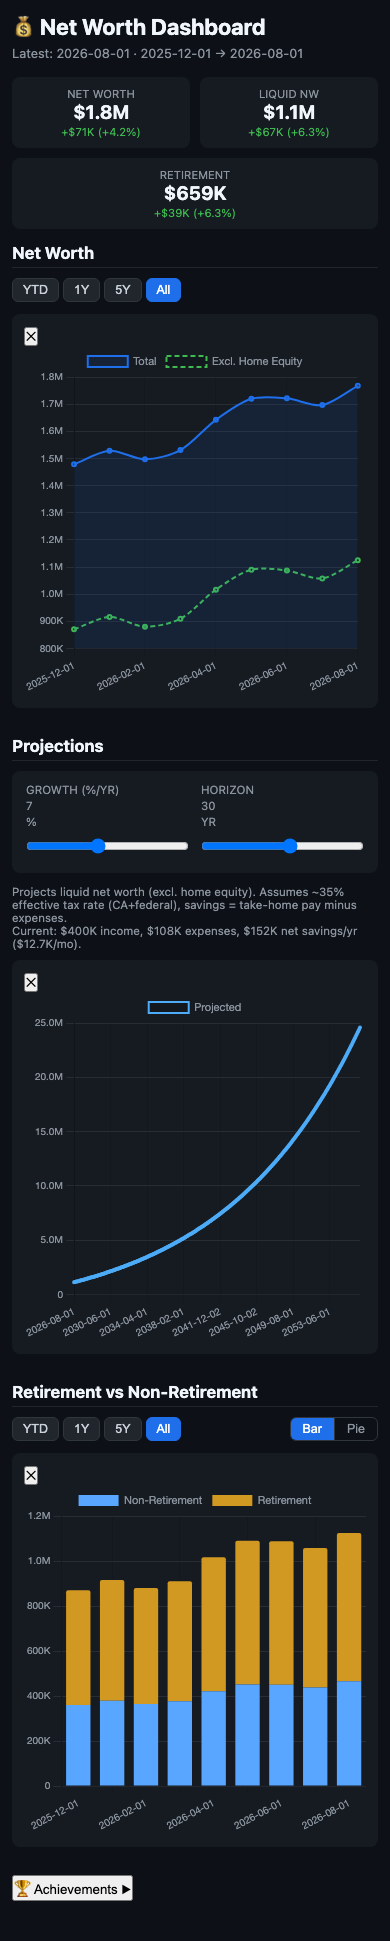
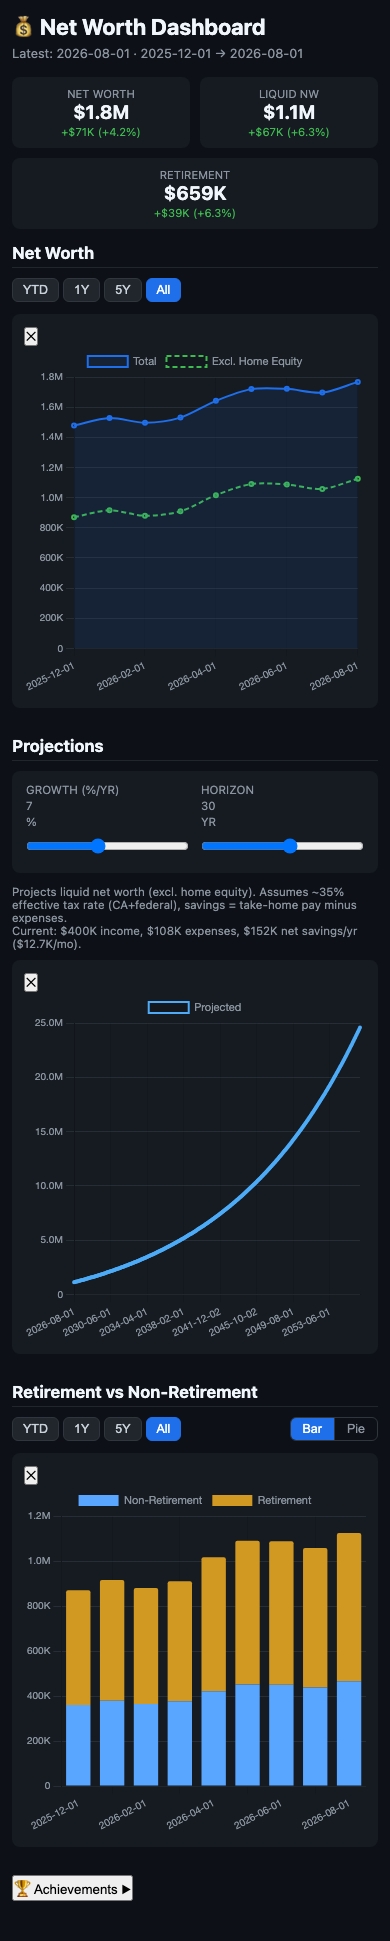
fix: Net Worth chart y-axis starts at 0

diff --git a/docs/index.html b/docs/index.html
@@ -177,7 +177,7 @@
 </div>
 
 <script>
[2 lines of base64/hex data omitted]
 Chart.register(ChartDataLabels);
 
 function sha256(str) {
@@ -274,7 +274,7 @@ function baseOpts() {
     plugins: { legend: { labels: { color: '#8b949e', font: { size: 11 } } }, datalabels: { display: false } },
     scales: {
       x: { ticks: { color: '#8b949e', font: { size: 10 }, maxTicksLimit: 8 } },
-      y: { ticks: { color: '#8b949e', font: { size: 10 }, callback: v => fmtShort(v) }, grid: { color: 'rgba(201,209,217,0.1)' } }
+      y: { ticks: { color: '#8b949e', font: { size: 10 }, callback: v => fmtShort(v) }, grid: { color: 'rgba(201,209,217,0.1)' }, min: 0 }
     },
     interaction: { intersect: false, mode: 'index' },
   };

diff --git a/templates/index.html b/templates/index.html
@@ -274,7 +274,7 @@ function baseOpts() {
     plugins: { legend: { labels: { color: '#8b949e', font: { size: 11 } } }, datalabels: { display: false } },
     scales: {
       x: { ticks: { color: '#8b949e', font: { size: 10 }, maxTicksLimit: 8 } },
-      y: { ticks: { color: '#8b949e', font: { size: 10 }, callback: v => fmtShort(v) }, grid: { color: 'rgba(201,209,217,0.1)' } }
+      y: { ticks: { color: '#8b949e', font: { size: 10 }, callback: v => fmtShort(v) }, grid: { color: 'rgba(201,209,217,0.1)' }, min: 0 }
     },
     interaction: { intersect: false, mode: 'index' },
   };
